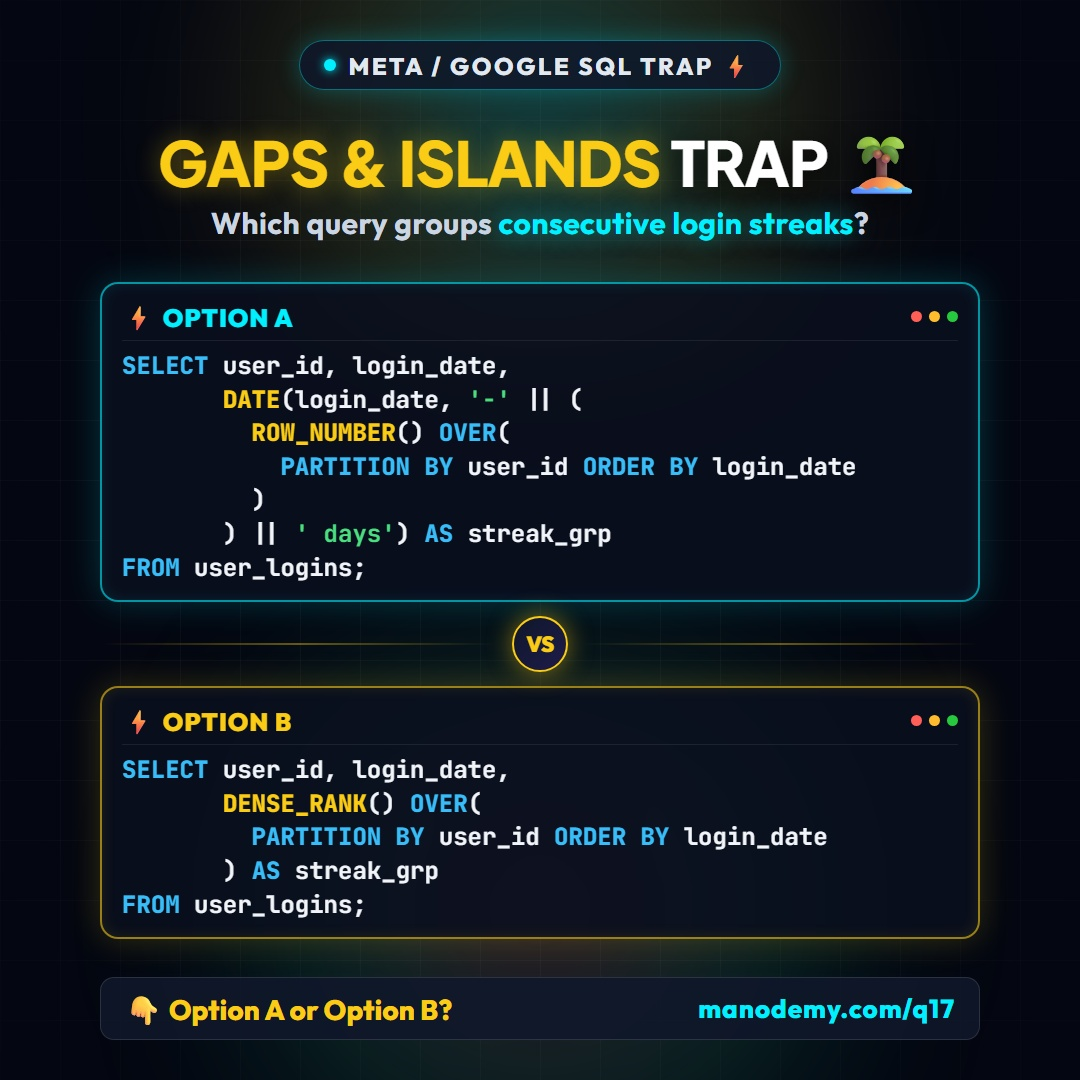
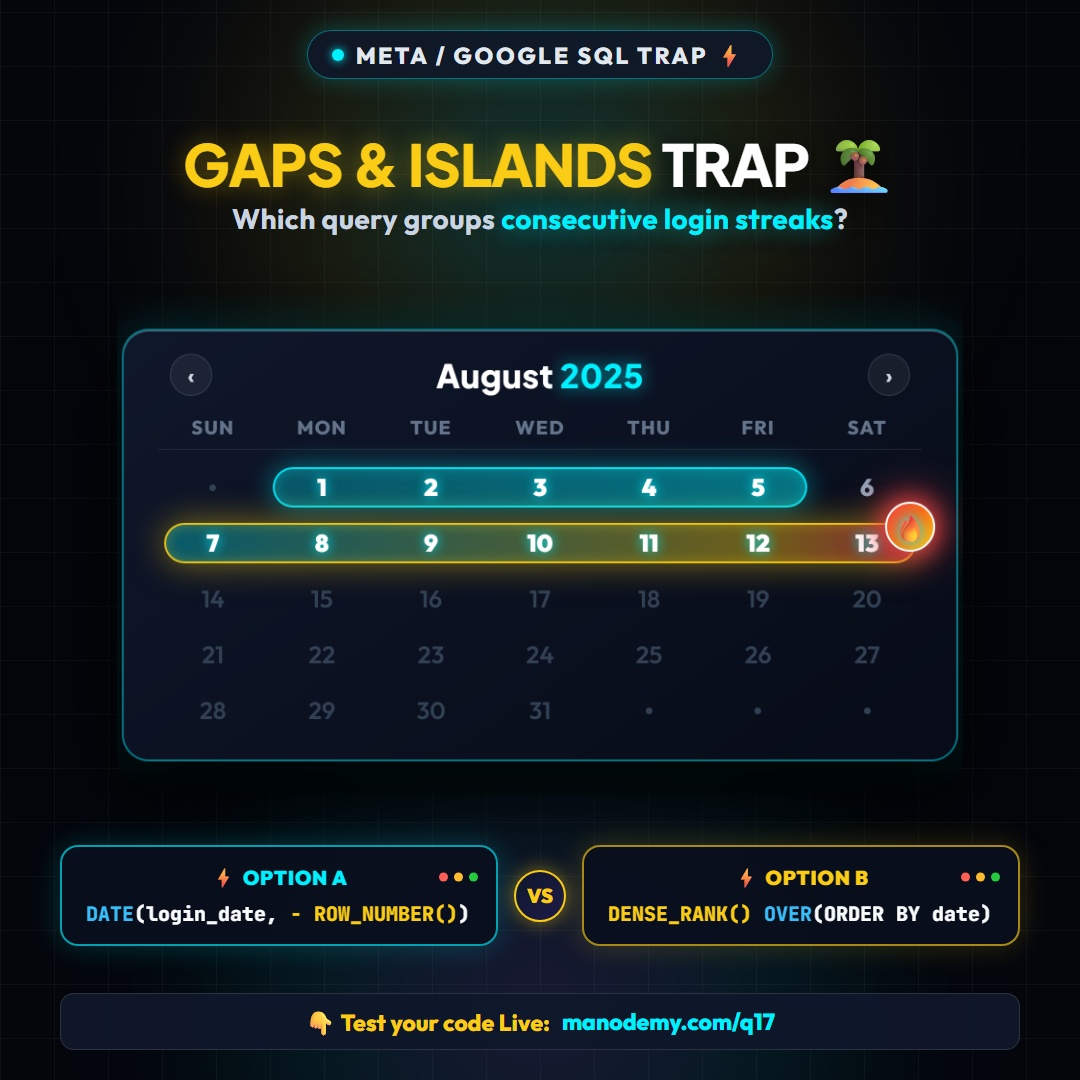
fix(marketing): regenerate SQL-10-R1 cover as true 9:16 (1080x1920) with 1080x1080 Instagram grid safe zone

Changed region(s): [[0.0611, 0.0, 0.9472, 0.9778], [0.7944, 0.3667, 0.825, 0.3972], [0.4889, 0.275, 0.5194, 0.3056]]

diff --git a/marketing/generate_final_problem_cover.py b/marketing/generate_final_problem_cover.py
@@ -42,7 +42,7 @@ HTML_TEMPLATE = f"""<!DOCTYPE html>
 
   body {{
     width: 1080px;
-    height: 1080px;
+    height: 1920px;
     background: var(--bg-dark);
     color: #fff;
     font-family: var(--font-sub);
@@ -57,13 +57,25 @@ HTML_TEMPLATE = f"""<!DOCTYPE html>
   /* Ambient Glow Spheres */
   .ambient-top {{
     position: absolute;
-    top: 5%;
+    top: 15%;
     left: 50%;
     transform: translateX(-50%);
-    width: 850px;
-    height: 450px;
+    width: 900px;
+    height: 650px;
     background: radial-gradient(circle, rgba(0, 240, 255, 0.22) 0%, rgba(250, 204, 21, 0.12) 40%, transparent 70%);
-    filter: blur(60px);
+    filter: blur(80px);
+    z-index: 1;
+  }}
+
+  .ambient-bottom {{
+    position: absolute;
+    bottom: 12%;
+    left: 50%;
+    transform: translateX(-50%);
+    width: 900px;
+    height: 550px;
+    background: radial-gradient(circle, rgba(168, 85, 247, 0.18) 0%, rgba(0, 240, 255, 0.1) 45%, transparent 70%);
+    filter: blur(80px);
     z-index: 1;
   }}
 
@@ -77,9 +89,45 @@ HTML_TEMPLATE = f"""<!DOCTYPE html>
     z-index: 2;
   }}
 
-  /* 1:1 Instagram Profile Safe Container */
+  /* Top & Bottom Accents for 9:16 Full Screen */
+  .top-brand-bar {{
+    position: absolute;
+    top: 180px;
+    left: 50%;
+    transform: translateX(-50%);
+    z-index: 5;
+    display: flex;
+    align-items: center;
+    gap: 12px;
+    font-size: 16px;
+    font-weight: 800;
+    letter-spacing: 3px;
+    color: #64748b;
+    text-transform: uppercase;
+  }}
+  .top-brand-bar .brand-name {{
+    color: #00f0ff;
+  }}
+
+  .bottom-cue-bar {{
+    position: absolute;
+    bottom: 180px;
+    left: 50%;
+    transform: translateX(-50%);
+    z-index: 5;
+    display: flex;
+    align-items: center;
+    gap: 10px;
+    font-size: 16px;
+    font-weight: 700;
+    letter-spacing: 1.5px;
+    color: #64748b;
+    text-transform: uppercase;
+  }}
+
+  /* 1:1 Instagram Profile Safe Container (Exactly 1080x1080 Center Zone) */
   .safe-container {{
-    width: 880px;
+    width: 960px;
     height: 1040px;
     position: relative;
     z-index: 10;
@@ -87,7 +135,7 @@ HTML_TEMPLATE = f"""<!DOCTYPE html>
     flex-direction: column;
     align-items: center;
     justify-content: space-between;
-    padding: 16px 0;
+    padding: 10px 0;
   }}
 
   /* Top Category Pill */
@@ -282,7 +330,15 @@ HTML_TEMPLATE = f"""<!DOCTYPE html>
 </head>
 <body>
   <div class="ambient-top"></div>
+  <div class="ambient-bottom"></div>
   <div class="cyber-grid"></div>
+
+  <!-- Top Brand Accent (outside 1:1 safe zone, visible in 9:16 full cover) -->
+  <div class="top-brand-bar">
+    <span>MANODEMY</span>
+    <span style="color:#facc15;">•</span>
+    <span class="brand-name">SQL MASTERCLASS</span>
+  </div>
 
   <div class="safe-container">
     <!-- Top Pill -->
@@ -348,6 +404,13 @@ HTML_TEMPLATE = f"""<!DOCTYPE html>
       <span class="brand-text">manodemy.com/q17</span>
     </div>
   </div>
+
+  <!-- Bottom Cue Accent (outside 1:1 safe zone, visible in 9:16 full cover) -->
+  <div class="bottom-cue-bar">
+    <span>🎧 Turn Sound On</span>
+    <span style="color:#00f0ff;">•</span>
+    <span>Practice Live on Manodemy</span>
+  </div>
 </body>
 </html>
 """
@@ -355,20 +418,39 @@ HTML_TEMPLATE = f"""<!DOCTYPE html>
 async def build_cover():
     async with async_playwright() as p:
         browser = await p.chromium.launch(headless=True)
-        page = await browser.new_page(viewport={"width": 1080, "height": 1080}, device_scale_factor=1.0)
+        # 1. Full 1080x1920 (9:16) Official Reel Cover
+        page = await browser.new_page(viewport={"width": 1080, "height": 1920}, device_scale_factor=1.0)
         await page.set_content(HTML_TEMPLATE)
-        await page.wait_for_timeout(300)
+        await page.wait_for_timeout(400)
 
-        out_jpg = OUTPUT_DIR / "SQL-10-R1_Cover_ProblemVisual.jpg"
-        await page.screenshot(path=str(out_jpg), type="jpeg", quality=95)
-        print(f"[OK] Final Problem-Visual Cover generated: {out_jpg}")
-        
-        # Also update official cover
         official_cover = OUTPUT_DIR / "SQL-10-R1_Cover.jpg"
+        official_cover_png = OUTPUT_DIR / "SQL-10-R1_Cover.png"
         await page.screenshot(path=str(official_cover), type="jpeg", quality=95)
-        print(f"[OK] Official cover overwritten: {official_cover}")
+        await page.screenshot(path=str(official_cover_png))
+        print(f"[OK] Full 9:16 Official Cover generated: {official_cover} (1080x1920)")
+
+        # 2. Instagram 1:1 Profile Grid Preview (Center 1080x1080 crop: y = (1920-1080)/2 = 420)
+        grid_preview = OUTPUT_DIR / "SQL-10-R1_Grid_1x1_Preview.jpg"
+        await page.screenshot(
+            path=str(grid_preview),
+            type="jpeg",
+            quality=95,
+            clip={"x": 0, "y": 420, "width": 1080, "height": 1080}
+        )
+        print(f"[OK] Instagram 1:1 Profile Grid Preview generated: {grid_preview} (1080x1080)")
+
+        # 3. Instagram 4:5 Home Feed Preview (Center 1080x1350 crop: y = (1920-1350)/2 = 285)
+        feed_preview = OUTPUT_DIR / "SQL-10-R1_Feed_4x5_Preview.jpg"
+        await page.screenshot(
+            path=str(feed_preview),
+            type="jpeg",
+            quality=95,
+            clip={"x": 0, "y": 285, "width": 1080, "height": 1350}
+        )
+        print(f"[OK] Instagram 4:5 Feed Preview generated: {feed_preview} (1080x1350)")
         
         await browser.close()
 
 if __name__ == "__main__":
     asyncio.run(build_cover())
+
